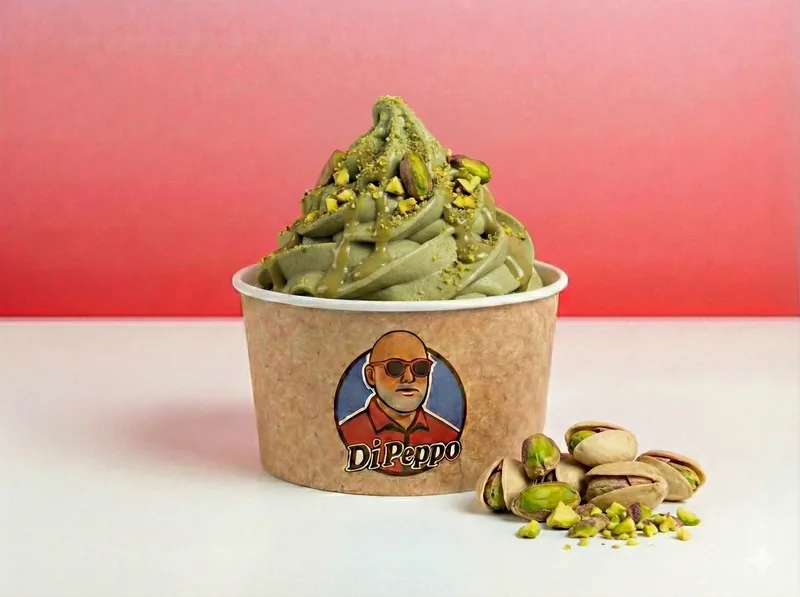
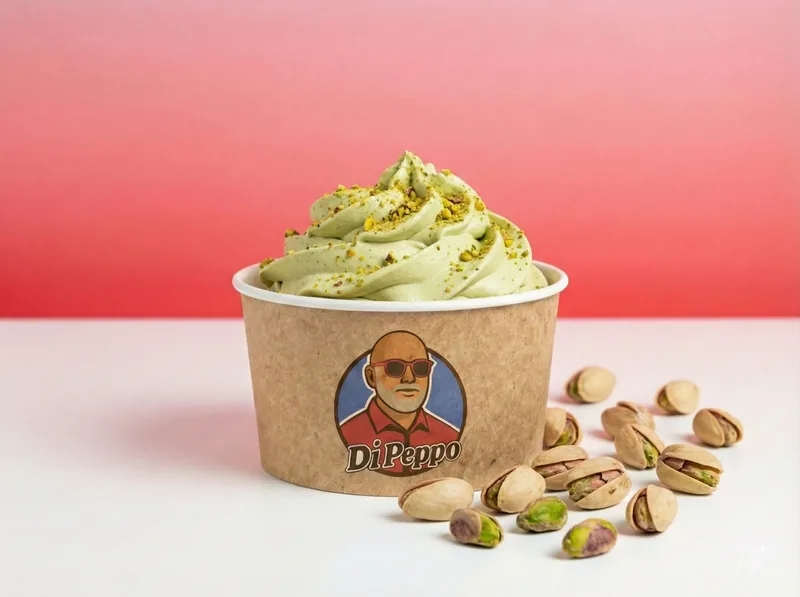
feat: 9 parfums complets avec photos Gemini + agrandissement 200px
- 9/9 parfums illustrés avec photos générées (style pot DiPeppo)
- Nouvelles images: pistache, café-noisette, abricot-orange, mangue, cassis
- Photos agrandies de 150px à 200px sur desktop
- PNG→WebP 800px (22-33 KB chacune)

Changed region(s): [[0.2812, 0.1508, 0.9375, 0.9648], [0.9375, 0.5126, 0.9688, 0.5427], [0.7812, 0.5126, 0.8125, 0.5427]]

diff --git a/nos-gelato.html b/nos-gelato.html
@@ -397,8 +397,8 @@
         }
 
         .flavor-card__photo {
-            width: 150px;
-            height: 150px;
+            width: 200px;
+            height: 200px;
             border-radius: 50%;
             object-fit: cover;
             margin: 0 auto 1rem;
@@ -872,24 +872,24 @@
                     <p class="flavor-card__origin">Sicile, Italie</p>
                 </div>
                 <div class="flavor-card">
-                    <span class="flavor-card__emoji">&#x2615;</span>
+                    <img src="images/gelato/parfums/cafe-noisette.webp" alt="Glace caf&eacute; noisette DiPeppo" class="flavor-card__photo" width="200" height="200" loading="lazy">
                     <div class="flavor-card__name">Caf&eacute; Noisette</div>
                     <p class="flavor-card__origin">Torr&eacute;faction artisanale</p>
                 </div>
                 <div class="flavor-card">
-                    <span class="flavor-card__emoji">&#x1F34A;</span>
+                    <img src="images/gelato/parfums/abricot-orange.webp" alt="Sorbet abricot orange de Provence DiPeppo" class="flavor-card__photo" width="200" height="200" loading="lazy">
                     <div class="flavor-card__name">Abricot Orange de Provence</div>
                     <p class="flavor-card__origin">Provence, France</p>
                     <span class="flavor-card__tag">Sorbet</span>
                 </div>
                 <div class="flavor-card">
-                    <span class="flavor-card__emoji">&#x1F96D;</span>
+                    <img src="images/gelato/parfums/mangue.webp" alt="Sorbet mangue DiPeppo" class="flavor-card__photo" width="200" height="200" loading="lazy">
                     <div class="flavor-card__name">Mangue</div>
                     <p class="flavor-card__origin">Fruit tropical</p>
                     <span class="flavor-card__tag">Sorbet</span>
                 </div>
                 <div class="flavor-card">
-                    <span class="flavor-card__emoji">&#x1FAD0;</span>
+                    <img src="images/gelato/parfums/cassis.webp" alt="Sorbet cassis de Bourgogne DiPeppo" class="flavor-card__photo" width="200" height="200" loading="lazy">
                     <div class="flavor-card__name">Cassis</div>
                     <p class="flavor-card__origin">Baies de Bourgogne</p>
                     <span class="flavor-card__tag">Sorbet</span>
